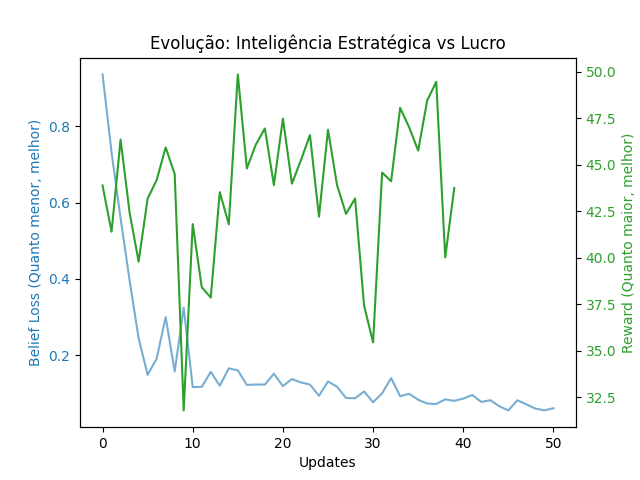
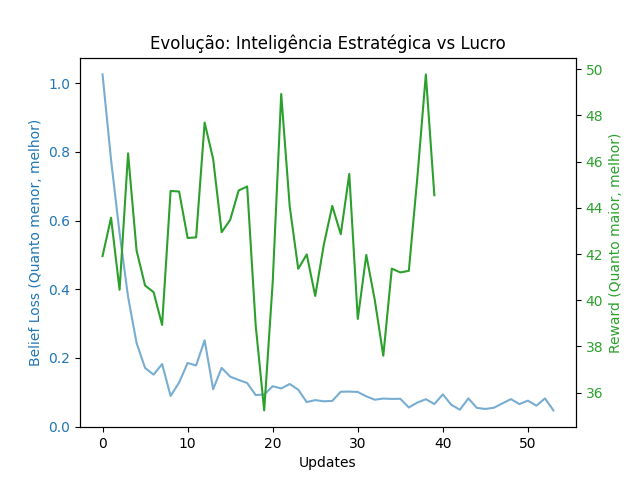
feat: Implement Actor-Critic architecture and enhance RolloutBuffer functionality

diff --git a/src/engine/trainer.py b/src/engine/trainer.py
@@ -1,34 +1,14 @@
 import torch
 import torch.nn as nn
-import numpy as np
-from src.agents.policy.network import AugmentedActorCritic
+from src.agents.policy.network import ActorCritic, AugmentedActorCritic
 from src.agents.belief.predictor import BeliefNetwork
 from src.engine.buffer import RolloutBuffer
 
 
-class BeliefPPOTrainer:
+class PPOTrainer:
     def __init__(
-        self,
-        env,
-        agent_id="proposer",
-        opponent_id="responder",
-        lr=0.002,
-        gamma=0.99,
-        eps_clip=0.2,
-        K_epochs=4,
+        self, env, agent_id="broker", lr=3e-4, gamma=0.99, K_epochs=4, eps_clip=0.2
     ):
-        """
-        Orquestrador de Treinamento Híbrido (PPO + Belief Learning).
-
-        Args:
-            env: Instância do ambiente PettingZoo/Gym.
-            agent_id: ID do agente sendo treinado (ex: 'proposer').
-            opponent_id: ID do oponente alvo da crença (ex: 'responder').
-            lr: Learning Rate compartilhado.
-            gamma: Fator de desconto.
-            eps_clip: Parâmetro de clip do PPO (estabilidade).
-            K_epochs: Quantas vezes reutilizar o batch de dados por update.
-        """
         self.env = env
         self.agent_id = agent_id
         self.gamma = gamma
@@ -38,6 +18,71 @@ class BeliefPPOTrainer:
         self.obs_dim = env.observation_space(agent_id).shape[0]
         self.action_dim = env.action_space(agent_id).n
 
+        self.policy = ActorCritic(self.obs_dim, self.action_dim)
+        self.optimizer = torch.optim.Adam(self.policy.parameters(), lr=lr)
+        self.policy_old = ActorCritic(self.obs_dim, self.action_dim)
+        self.policy_old.load_state_dict(self.policy.state_dict())
+
+        self.buffer = RolloutBuffer()
+        self.mse_loss = nn.MSELoss()
+
+    def select_action(self, state):
+        with torch.no_grad():
+            state = torch.FloatTensor(state)
+            action, log_prob = self.policy_old.get_action(state)
+            val = self.policy_old.get_value(state)
+        return action.item(), log_prob, val.item()
+
+    def update(self):
+        old_states, old_actions, old_logprobs, returns = (
+            self.buffer.compute_gae_and_returns(0.0, self.gamma)
+        )
+
+        for _ in range(self.K_epochs):
+            logprobs, state_values, dist_entropy = self.policy.evaluate(
+                old_states, old_actions
+            )
+            ratios = torch.exp(logprobs - old_logprobs.detach())
+            advantages = returns - state_values.detach().squeeze()
+            advantages = (advantages - advantages.mean()) / (advantages.std() + 1e-7)
+
+            surr1 = ratios * advantages
+            surr2 = (
+                torch.clamp(ratios, 1 - self.eps_clip, 1 + self.eps_clip) * advantages
+            )
+            loss = (
+                -torch.min(surr1, surr2)
+                + 0.5 * self.mse_loss(state_values.squeeze(), returns)
+                - 0.01 * dist_entropy
+            )
+
+            self.optimizer.zero_grad()
+            loss.mean().backward()
+            self.optimizer.step()
+
+        self.policy_old.load_state_dict(self.policy.state_dict())
+        self.buffer.clear()
+
+
+class BeliefPPOTrainer:
+    def __init__(
+        self,
+        env,
+        agent_id="broker",
+        opponent_id="lead",
+        lr=0.002,
+        gamma=0.99,
+        eps_clip=0.2,
+        K_epochs=4,
+    ):
+        self.env = env
+        self.agent_id = agent_id
+        self.gamma = gamma
+        self.eps_clip = eps_clip
+        self.K_epochs = K_epochs
+
+        self.obs_dim = env.observation_space(agent_id).shape[0]
+        self.action_dim = env.action_space(agent_id).n
         self.opp_action_dim = env.action_space(opponent_id).n
 
         self.belief_net = BeliefNetwork(self.obs_dim, self.opp_action_dim)
@@ -58,14 +103,6 @@ class BeliefPPOTrainer:
         self.mse_loss = nn.MSELoss()
 
     def select_action(self, state):
-        """
-        Executa o forward pass completo para inferência/coleta de dados.
-        Retorna:
-            action: Ação escolhida (int)
-            log_prob: Log probabilidade da ação (para PPO)
-            val: Valor do estado V(s) (para GAE)
-            belief_probs: Vetor de probabilidades da crença (input para a Policy)
-        """
         with torch.no_grad():
             state_t = torch.FloatTensor(state)
 
@@ -73,13 +110,9 @@ class BeliefPPOTrainer:
 
             action, log_prob = self.policy_old.get_action(state_t, belief_probs)
             val = self.policy_old.get_value(state_t)
-
         return action.item(), log_prob, val.item(), belief_probs
 
     def update(self):
-        """
-        Realiza a atualização dos pesos das duas redes (Belief e Policy).
-        """
 
         old_states, old_actions, old_logprobs, returns = (
             self.buffer.compute_gae_and_returns(0.0, self.gamma)
@@ -89,36 +122,26 @@ class BeliefPPOTrainer:
 
         avg_belief_loss = 0
         for _ in range(self.K_epochs):
-
             predicted_logits = self.belief_net(b_states)
-
             belief_loss = self.belief_loss_fn(predicted_logits, b_targets)
-
             self.belief_optimizer.zero_grad()
             belief_loss.backward()
             self.belief_optimizer.step()
-
             avg_belief_loss += belief_loss.item()
-
         avg_belief_loss /= self.K_epochs
 
         for _ in range(self.K_epochs):
-
             logprobs, state_values, dist_entropy = self.policy.evaluate(
                 old_states, b_probs_old, old_actions
             )
-
             ratios = torch.exp(logprobs - old_logprobs.detach())
-
             advantages = returns - state_values.detach().squeeze()
-
             advantages = (advantages - advantages.mean()) / (advantages.std() + 1e-7)
 
             surr1 = ratios * advantages
             surr2 = (
                 torch.clamp(ratios, 1 - self.eps_clip, 1 + self.eps_clip) * advantages
             )
-
             loss = (
                 -torch.min(surr1, surr2)
                 + 0.5 * self.mse_loss(state_values.squeeze(), returns)
@@ -130,7 +153,6 @@ class BeliefPPOTrainer:
             self.optimizer.step()
 
         self.policy_old.load_state_dict(self.policy.state_dict())
-
         self.buffer.clear()
 
         return avg_belief_loss

diff --git a/src/engine/buffer.py b/src/engine/buffer.py
@@ -25,8 +25,20 @@ class RolloutBuffer:
         del self.opponent_actions[:]
 
     def add(
-        self, state, action, logprob, reward, state_value, done, belief_prob, opp_action
+        self,
+        state,
+        action,
+        logprob,
+        reward,
+        state_value,
+        done,
+        belief_prob=None,
+        opp_action=None,
     ):
+        """
+        Adiciona uma transição ao buffer.
+        belief_prob e opp_action são opcionais (None para PPO Vanilla, Preenchidos para Belief PPO).
+        """
         self.states.append(state)
         self.actions.append(action)
         self.logprobs.append(logprob)
@@ -34,8 +46,14 @@ class RolloutBuffer:
         self.state_values.append(state_value)
         self.is_terminals.append(done)
 
-        self.belief_probs.append(belief_prob)
-        self.opponent_actions.append(torch.tensor(opp_action, dtype=torch.long))
+        if belief_prob is not None:
+            self.belief_probs.append(belief_prob)
+
+        if opp_action is not None:
+
+            if not isinstance(opp_action, torch.Tensor):
+                opp_action = torch.tensor(opp_action, dtype=torch.long)
+            self.opponent_actions.append(opp_action)
 
     def compute_gae_and_returns(self, last_value, gamma=0.99, gae_lambda=0.95):
         """
@@ -56,20 +74,29 @@ class RolloutBuffer:
                 mask = 1
 
             delta = rewards[i] + gamma * state_values[i + 1] * mask - state_values[i]
-
             gae = delta + gamma * gae_lambda * mask * gae
             returns.insert(0, gae + state_values[i])
 
         returns = torch.tensor(returns, dtype=torch.float32)
         returns = (returns - returns.mean()) / (returns.std() + 1e-7)
 
-        old_states = torch.stack(self.states).detach()
+        if isinstance(self.states[0], np.ndarray):
+            old_states = torch.tensor(np.array(self.states), dtype=torch.float32)
+        else:
+            old_states = torch.stack(self.states).detach()
+
         old_actions = torch.stack(self.actions).detach()
         old_logprobs = torch.stack(self.logprobs).detach()
 
         return old_states, old_actions, old_logprobs, returns
 
     def get_belief_data(self):
+        """Recupera dados específicos para treino da rede de crença."""
+        if not self.belief_probs or not self.opponent_actions:
+            raise ValueError(
+                "Buffer não contém dados de crença. Verifique se belief_prob/opp_action foram passados no .add()"
+            )
+
         return (
             torch.stack(self.states).detach(),
             torch.stack(self.belief_probs).detach(),

diff --git a/src/agents/policy/network.py b/src/agents/policy/network.py
@@ -3,6 +3,46 @@ import torch.nn as nn
 from torch.distributions import Categorical
 
 
+class ActorCritic(nn.Module):
+    def __init__(self, obs_dim: int, action_dim: int, hidden_dim: int = 64):
+        super().__init__()
+
+        self.actor = nn.Sequential(
+            nn.Linear(obs_dim, hidden_dim),
+            nn.Tanh(),
+            nn.Linear(hidden_dim, hidden_dim),
+            nn.Tanh(),
+            nn.Linear(hidden_dim, action_dim),
+        )
+
+        self.critic = nn.Sequential(
+            nn.Linear(obs_dim, hidden_dim),
+            nn.Tanh(),
+            nn.Linear(hidden_dim, hidden_dim),
+            nn.Tanh(),
+            nn.Linear(hidden_dim, 1),
+        )
+
+    def get_action(self, obs):
+        logits = self.actor(obs)
+        dist = Categorical(logits=logits)
+        action = dist.sample()
+        return action, dist.log_prob(action)
+
+    def evaluate(self, obs, action):
+        logits = self.actor(obs)
+        dist = Categorical(logits=logits)
+
+        action_logprobs = dist.log_prob(action)
+        dist_entropy = dist.entropy()
+        state_values = self.critic(obs)
+
+        return action_logprobs, state_values, dist_entropy
+
+    def get_value(self, obs):
+        return self.critic(obs)
+
+
 class AugmentedActorCritic(nn.Module):
     def __init__(
         self, obs_dim: int, belief_dim: int, action_dim: int, hidden_dim: int = 64

diff --git a/src/core/types.py b/src/core/types.py
@@ -33,7 +33,7 @@ class MarketState:
     proposer_active_deals: int
 
     regulator_capital: float
-    regulator_risk_thresholdd: float
+    regulator_risk_threshold: float
 
     last_transaction_price: float = 0.0
     transaction_occurred: bool = False
